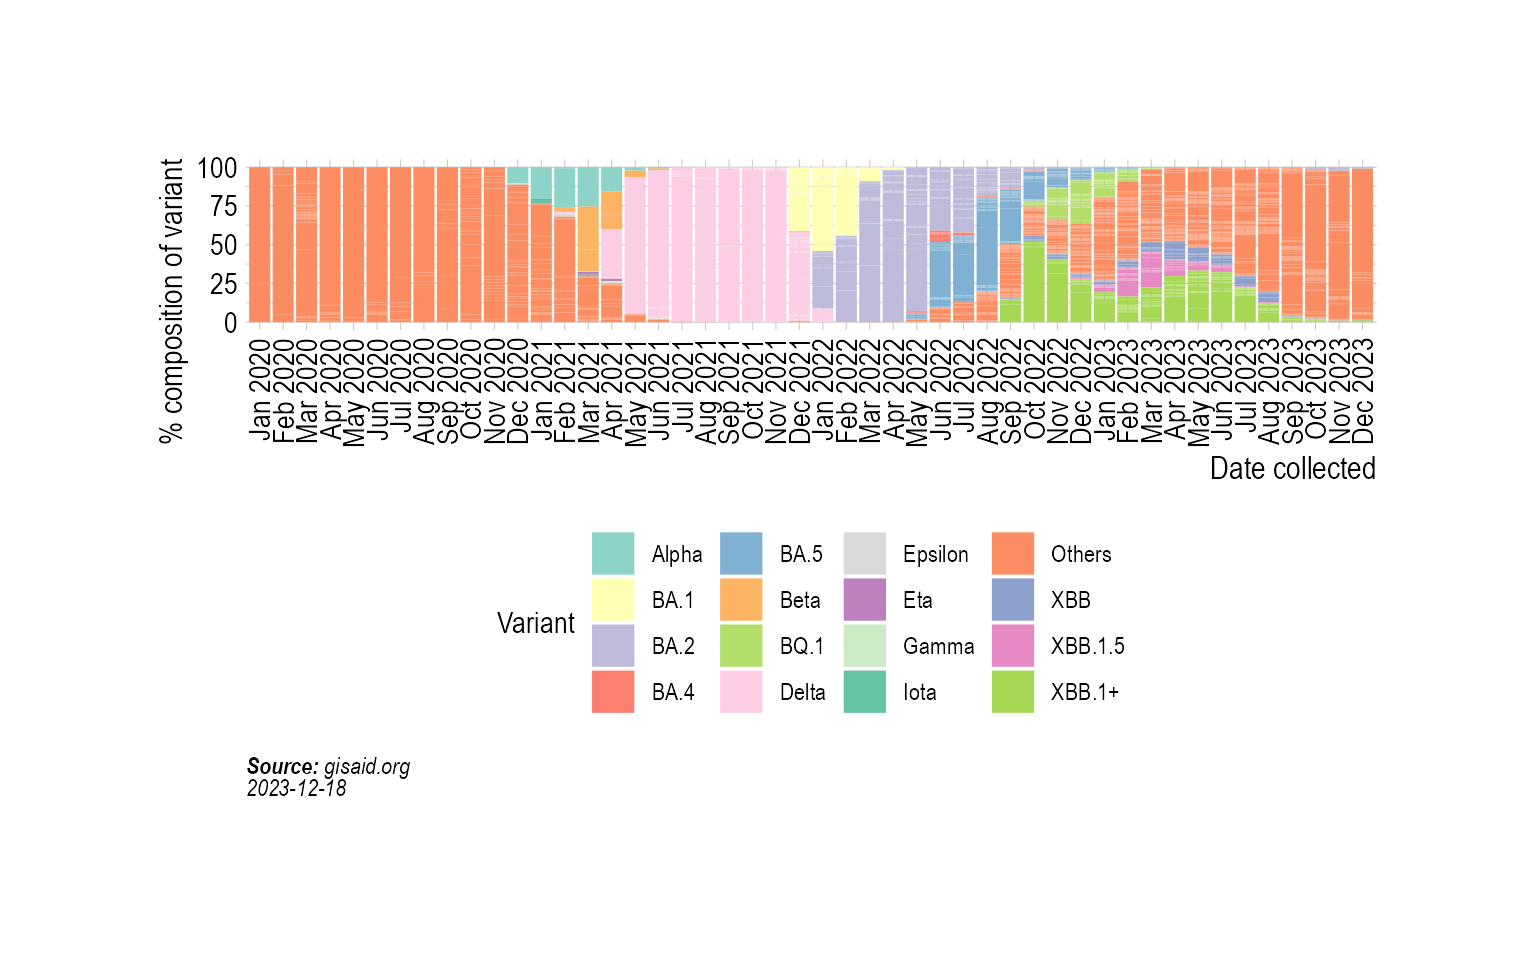
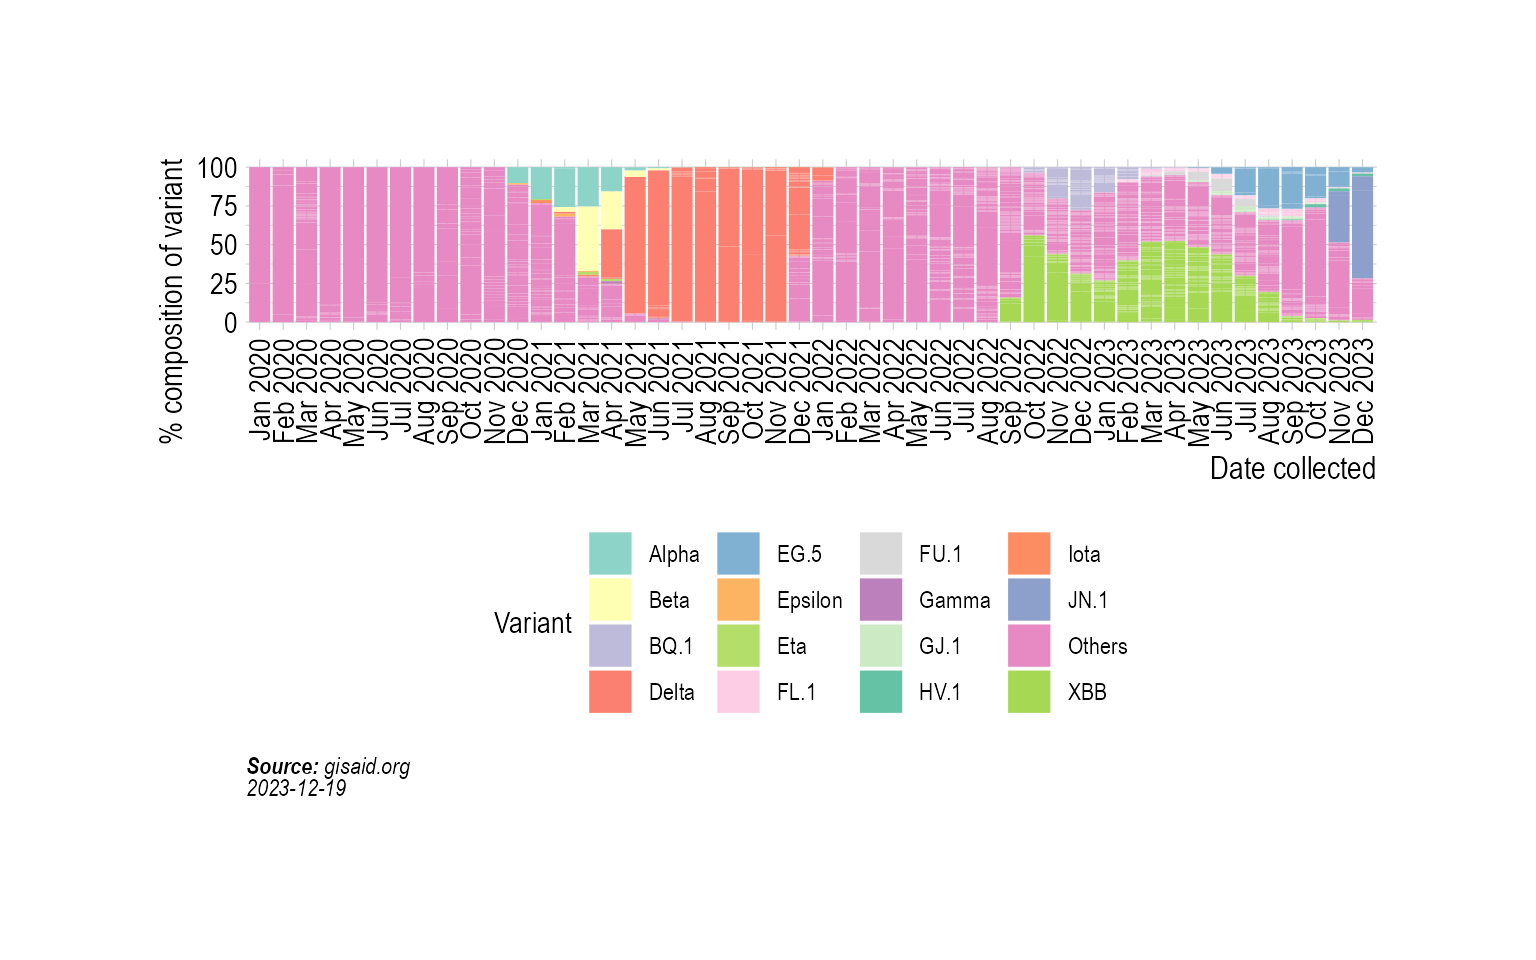
Add 2023

diff --git a/docs/articles/VariantAnimation-NewYork.html b/docs/articles/VariantAnimation-NewYork.html
@@ -147,20 +147,31 @@
 <span></span>
 <span><span class="va">vocs</span> <span class="op">&lt;-</span> <span class="fu"><a href="../reference/GetVOCs.html">GetVOCs</a></span><span class="op">(</span><span class="op">)</span></span>
 <span><span class="va">custom_voc_mapping</span> <span class="op">&lt;-</span> <span class="fu"><a href="https://rdrr.io/r/base/list.html" class="external-link">list</a></span><span class="op">(</span></span>
-<span>  `XBB` <span class="op">=</span> <span class="st">"XBB.*"</span>,</span>
-<span>  `XBB.*` <span class="op">=</span> <span class="st">"XBB.*"</span>,</span>
+<span>  `XBB` <span class="op">=</span> <span class="st">"XBB"</span>,</span>
+<span>  `XBB.1.5` <span class="op">=</span> <span class="st">"XBB"</span>,</span>
+<span>  `XBB.1` <span class="op">=</span> <span class="st">"XBB"</span>,</span>
+<span>  `XBB.1.*` <span class="op">=</span> <span class="st">"XBB"</span>,</span>
+<span>  `XBB.*` <span class="op">=</span> <span class="st">"XBB"</span>,</span>
+<span>  `XBB.*.*` <span class="op">=</span> <span class="st">"XBB"</span>,</span>
+<span>  `XBB.*.*.*` <span class="op">=</span> <span class="st">"XBB"</span>,</span>
 <span>  `BQ.1` <span class="op">=</span> <span class="st">"BQ.1"</span>,</span>
 <span>  `BQ.1.*` <span class="op">=</span> <span class="st">"BQ.1"</span>,</span>
-<span>  `XBB.1` <span class="op">=</span> <span class="st">"XBB.1.*"</span>,</span>
-<span>  `XBB.1.*` <span class="op">=</span> <span class="st">"XBB.1.*"</span>,</span>
-<span>  `XBB.1.5` <span class="op">=</span> <span class="st">"XBB.1.5"</span>,</span>
-<span>  `XBB.1.16` <span class="op">=</span> <span class="st">"XBB.1.16"</span>,</span>
-<span>  `XBB.1.16.*` <span class="op">=</span> <span class="st">"XBB.1.16"</span>,</span>
+<span>  `EG.5` <span class="op">=</span> <span class="st">"EG.5"</span>,</span>
+<span>  `EG.5.1` <span class="op">=</span> <span class="st">"EG.5"</span>,</span>
+<span>  `EG.5.1.1` <span class="op">=</span> <span class="st">"EG.5"</span>,</span>
 <span>  `EG.5.*` <span class="op">=</span> <span class="st">"EG.5"</span>,</span>
-<span>  `FL.1.*` <span class="op">=</span> <span class="st">"FL.1.*"</span>,</span>
-<span>  <span class="co"># `FL.1.5.*` = "FL.1.5",</span></span>
-<span>  <span class="co"># `FL.1.6.*` = "FL.1.6",</span></span>
-<span>  `GJ.1.2` <span class="op">=</span> <span class="st">"GJ.1.2"</span></span>
+<span>  `EG.5.1` <span class="op">=</span> <span class="st">"EG.5"</span>,</span>
+<span>  <span class="co">#`EG.6.*` = "EG.6",</span></span>
+<span>  <span class="co">#`EG.6.1` = "EG.6",</span></span>
+<span>  `FL.1.*` <span class="op">=</span> <span class="st">"FL.1"</span>,</span>
+<span>  `FU.1` <span class="op">=</span> <span class="st">"FU.1"</span>,</span>
+<span>  `FU.1.*` <span class="op">=</span> <span class="st">"FU.1"</span>,</span>
+<span>  `GJ.1.2` <span class="op">=</span> <span class="st">"GJ.1"</span>,</span>
+<span>  `GJ.1.*` <span class="op">=</span> <span class="st">"GJ.1"</span>,</span>
+<span>  `JN.1` <span class="op">=</span> <span class="st">"JN.1"</span>,</span>
+<span>  `JN.1.*` <span class="op">=</span> <span class="st">"JN.1"</span>,</span>
+<span>  `HV.1` <span class="op">=</span> <span class="st">"HV.1"</span>,</span>
+<span>  `HV.1.*` <span class="op">=</span> <span class="st">"HV.1"</span></span>
 <span><span class="op">)</span></span>
 <span><span class="va">gisaid_NY</span> <span class="op">&lt;-</span> <span class="va">gisaid_NY</span> <span class="op"><a href="https://magrittr.tidyverse.org/reference/pipe.html" class="external-link">%&gt;%</a></span> <span class="fu"><a href="https://dplyr.tidyverse.org/reference/filter.html" class="external-link">filter</a></span><span class="op">(</span><span class="va">pangolin_lineage</span> <span class="op">!=</span> <span class="st">"None"</span><span class="op">)</span></span>
 <span></span>
@@ -240,39 +251,42 @@
 <span><span class="va">newyork_cases_pred_prob_sel_long</span> <span class="op">&lt;-</span> <span class="fu">FitMultinomWeekly</span><span class="op">(</span><span class="va">gisaid_NY_weekwise</span>, <span class="va">confirmed_subset_dateweekwise_long</span><span class="op">)</span></span></code></pre></div>
 <pre><code><span><span class="co">## # weights:  76 (54 variable)</span></span>
 <span><span class="co">## initial  value 1010001.458634 </span></span>
-<span><span class="co">## iter  10 value 566159.885374</span></span>
-<span><span class="co">## iter  20 value 437620.703503</span></span>
-<span><span class="co">## iter  30 value 404498.499824</span></span>
-<span><span class="co">## iter  40 value 336866.930859</span></span>
-<span><span class="co">## iter  50 value 269393.671027</span></span>
-<span><span class="co">## iter  60 value 220122.374534</span></span>
-<span><span class="co">## iter  70 value 204316.805141</span></span>
-<span><span class="co">## iter  80 value 203003.958354</span></span>
-<span><span class="co">## iter  90 value 199894.761543</span></span>
-<span><span class="co">## iter 100 value 197554.257652</span></span>
-<span><span class="co">## iter 110 value 194919.906466</span></span>
-<span><span class="co">## iter 120 value 194881.146132</span></span>
-<span><span class="co">## iter 130 value 194823.583407</span></span>
-<span><span class="co">## iter 140 value 194672.576151</span></span>
-<span><span class="co">## iter 150 value 193793.357158</span></span>
-<span><span class="co">## iter 160 value 193351.286062</span></span>
-<span><span class="co">## iter 170 value 193262.317008</span></span>
-<span><span class="co">## iter 180 value 193161.900253</span></span>
-<span><span class="co">## iter 190 value 193125.851603</span></span>
-<span><span class="co">## iter 200 value 193070.999420</span></span>
-<span><span class="co">## iter 210 value 193030.398306</span></span>
-<span><span class="co">## iter 220 value 193011.530373</span></span>
-<span><span class="co">## iter 230 value 193010.427189</span></span>
-<span><span class="co">## iter 240 value 193009.755394</span></span>
-<span><span class="co">## iter 250 value 193009.039769</span></span>
-<span><span class="co">## iter 260 value 193002.551259</span></span>
-<span><span class="co">## iter 270 value 192995.148969</span></span>
-<span><span class="co">## iter 280 value 192990.181962</span></span>
-<span><span class="co">## iter 290 value 192987.358018</span></span>
-<span><span class="co">## iter 300 value 192982.372316</span></span>
-<span><span class="co">## iter 310 value 192979.840458</span></span>
-<span><span class="co">## iter 320 value 192973.041250</span></span>
-<span><span class="co">## final  value 192971.059821 </span></span>
+<span><span class="co">## iter  10 value 619111.373393</span></span>
+<span><span class="co">## iter  20 value 502830.291513</span></span>
+<span><span class="co">## iter  30 value 467338.725433</span></span>
+<span><span class="co">## iter  40 value 379343.704580</span></span>
+<span><span class="co">## iter  50 value 273901.534083</span></span>
+<span><span class="co">## iter  60 value 219325.697743</span></span>
+<span><span class="co">## iter  70 value 201375.186535</span></span>
+<span><span class="co">## iter  80 value 196984.262630</span></span>
+<span><span class="co">## iter  90 value 195684.978356</span></span>
+<span><span class="co">## iter 100 value 193081.203995</span></span>
+<span><span class="co">## iter 110 value 190709.802037</span></span>
+<span><span class="co">## iter 120 value 190613.895245</span></span>
+<span><span class="co">## iter 130 value 190043.771135</span></span>
+<span><span class="co">## iter 140 value 186970.571105</span></span>
+<span><span class="co">## iter 150 value 185811.065508</span></span>
+<span><span class="co">## iter 160 value 185638.981219</span></span>
+<span><span class="co">## iter 170 value 185516.542360</span></span>
+<span><span class="co">## iter 180 value 185414.226062</span></span>
+<span><span class="co">## iter 190 value 185276.336124</span></span>
+<span><span class="co">## iter 200 value 185234.646561</span></span>
+<span><span class="co">## iter 210 value 185165.429592</span></span>
+<span><span class="co">## iter 220 value 185157.363469</span></span>
+<span><span class="co">## iter 230 value 185156.835653</span></span>
+<span><span class="co">## iter 240 value 185155.977242</span></span>
+<span><span class="co">## iter 250 value 185155.718607</span></span>
+<span><span class="co">## iter 260 value 185155.475303</span></span>
+<span><span class="co">## iter 270 value 185154.804150</span></span>
+<span><span class="co">## iter 280 value 185152.271977</span></span>
+<span><span class="co">## iter 290 value 185146.235712</span></span>
+<span><span class="co">## iter 300 value 185142.930987</span></span>
+<span><span class="co">## iter 310 value 185137.384087</span></span>
+<span><span class="co">## iter 320 value 185127.260207</span></span>
+<span><span class="co">## iter 330 value 185123.239067</span></span>
+<span><span class="co">## iter 340 value 185113.622547</span></span>
+<span><span class="co">## iter 350 value 185107.240830</span></span>
+<span><span class="co">## final  value 185103.223798 </span></span>
 <span><span class="co">## converged</span></span></code></pre>
 <div class="sourceCode" id="cb9"><pre class="downlit sourceCode r">
 <code class="sourceCode R"><span><span class="va">the_anim</span> <span class="op">&lt;-</span> <span class="fu">PlotVariantPrevalenceAnimated</span><span class="op">(</span><span class="va">newyork_cases_pred_prob_sel_long</span>, title <span class="op">=</span> <span class="st">"Estimated cases (weekly average) in New York state by variant"</span>, caption <span class="op">=</span> <span class="st">"**Source: gisaid.org and covid19nytimes**&lt;br&gt;"</span>, date_breaks <span class="op">=</span> <span class="st">"28 days"</span><span class="op">)</span></span>
@@ -283,13 +297,13 @@
 <code class="sourceCode R"><span><span class="va">confirmed</span><span class="op">$</span><span class="va">MonthYear</span> <span class="op">&lt;-</span> <span class="fu"><a href="../reference/GetMonthYear.html">GetMonthYear</a></span><span class="op">(</span><span class="va">confirmed</span><span class="op">$</span><span class="va">date</span><span class="op">)</span></span>
 <span></span>
 <span><span class="va">confirmed_subset_dateweekwise_long</span> <span class="op">&lt;-</span> <span class="va">confirmed</span> <span class="op"><a href="https://magrittr.tidyverse.org/reference/pipe.html" class="external-link">%&gt;%</a></span></span>
-<span>  <span class="fu"><a href="https://dplyr.tidyverse.org/reference/filter.html" class="external-link">filter</a></span><span class="op">(</span><span class="va">MonthYear</span> <span class="op">&gt;</span> <span class="st">"Feb 2022"</span><span class="op">)</span> <span class="op"><a href="https://magrittr.tidyverse.org/reference/pipe.html" class="external-link">%&gt;%</a></span></span>
+<span>  <span class="fu"><a href="https://dplyr.tidyverse.org/reference/filter.html" class="external-link">filter</a></span><span class="op">(</span><span class="va">MonthYear</span> <span class="op">&gt;</span> <span class="st">"December 2022"</span><span class="op">)</span> <span class="op"><a href="https://magrittr.tidyverse.org/reference/pipe.html" class="external-link">%&gt;%</a></span></span>
 <span>  <span class="fu"><a href="https://dplyr.tidyverse.org/reference/group_by.html" class="external-link">group_by</a></span><span class="op">(</span><span class="va">WeekYear</span><span class="op">)</span> <span class="op"><a href="https://magrittr.tidyverse.org/reference/pipe.html" class="external-link">%&gt;%</a></span></span>
 <span>  <span class="fu"><a href="https://dplyr.tidyverse.org/reference/summarise.html" class="external-link">summarise</a></span><span class="op">(</span>n <span class="op">=</span> <span class="fu"><a href="https://rdrr.io/r/base/sum.html" class="external-link">sum</a></span><span class="op">(</span><span class="va">daily_cases</span><span class="op">)</span><span class="op">)</span> <span class="op"><a href="https://magrittr.tidyverse.org/reference/pipe.html" class="external-link">%&gt;%</a></span></span>
 <span>  <span class="fu"><a href="https://dplyr.tidyverse.org/reference/arrange.html" class="external-link">arrange</a></span><span class="op">(</span><span class="va">WeekYear</span><span class="op">)</span> <span class="op"><a href="https://magrittr.tidyverse.org/reference/pipe.html" class="external-link">%&gt;%</a></span></span>
 <span>  <span class="fu"><a href="https://dplyr.tidyverse.org/reference/rename.html" class="external-link">rename</a></span><span class="op">(</span>WeekYearCollected <span class="op">=</span> <span class="va">WeekYear</span><span class="op">)</span></span>
 <span></span>
-<span><span class="va">gisaid_NY</span> <span class="op">&lt;-</span> <span class="va">gisaid_NY</span> <span class="op"><a href="https://magrittr.tidyverse.org/reference/pipe.html" class="external-link">%&gt;%</a></span> <span class="fu"><a href="https://dplyr.tidyverse.org/reference/filter.html" class="external-link">filter</a></span><span class="op">(</span><span class="va">MonthYearCollected</span> <span class="op">&gt;</span> <span class="st">"Feb 2022"</span><span class="op">)</span></span>
+<span><span class="va">gisaid_NY</span> <span class="op">&lt;-</span> <span class="va">gisaid_NY</span> <span class="op"><a href="https://magrittr.tidyverse.org/reference/pipe.html" class="external-link">%&gt;%</a></span> <span class="fu"><a href="https://dplyr.tidyverse.org/reference/filter.html" class="external-link">filter</a></span><span class="op">(</span><span class="va">MonthYearCollected</span> <span class="op">&gt;</span> <span class="st">"December 2022"</span><span class="op">)</span></span>
 <span><span class="va">gisaid_weekwise</span> <span class="op">&lt;-</span> <span class="fu"><a href="../reference/SummarizeVariantsWeekwise.html">SummarizeVariantsWeekwise</a></span><span class="op">(</span><span class="va">gisaid_NY</span><span class="op">)</span></span>
 <span></span>
 <span><span class="va">voc_to_keep</span> <span class="op">&lt;-</span> <span class="va">gisaid_weekwise</span> <span class="op"><a href="https://magrittr.tidyverse.org/reference/pipe.html" class="external-link">%&gt;%</a></span></span>
@@ -301,19 +315,18 @@
 <span><span class="va">gisaid_weekwise</span> <span class="op">&lt;-</span> <span class="va">gisaid_weekwise</span> <span class="op"><a href="https://magrittr.tidyverse.org/reference/pipe.html" class="external-link">%&gt;%</a></span> <span class="fu"><a href="https://dplyr.tidyverse.org/reference/filter.html" class="external-link">filter</a></span><span class="op">(</span><span class="va">lineage_collapsed</span> <span class="op"><a href="https://rdrr.io/r/base/match.html" class="external-link">%in%</a></span> <span class="va">voc_to_keep</span><span class="op">)</span></span>
 <span></span>
 <span><span class="va">cases_pred_prob_sel_long</span> <span class="op">&lt;-</span> <span class="fu">FitMultinomWeekly</span><span class="op">(</span><span class="va">gisaid_weekwise</span>, <span class="va">confirmed_subset_dateweekwise_long</span><span class="op">)</span></span></code></pre></div>
-<pre><code><span><span class="co">## # weights:  40 (27 variable)</span></span>
-<span><span class="co">## initial  value 393868.693082 </span></span>
-<span><span class="co">## iter  10 value 142360.152256</span></span>
-<span><span class="co">## iter  20 value 135141.263929</span></span>
-<span><span class="co">## iter  30 value 116380.812630</span></span>
-<span><span class="co">## iter  40 value 108561.420085</span></span>
-<span><span class="co">## iter  50 value 107761.875889</span></span>
-<span><span class="co">## iter  60 value 107702.170901</span></span>
-<span><span class="co">## iter  70 value 107658.933557</span></span>
-<span><span class="co">## iter  80 value 107536.416244</span></span>
-<span><span class="co">## iter  90 value 107496.848564</span></span>
-<span><span class="co">## iter 100 value 107494.872405</span></span>
-<span><span class="co">## final  value 107494.505963 </span></span>
+<pre><code><span><span class="co">## # weights:  36 (24 variable)</span></span>
+<span><span class="co">## initial  value 75189.025036 </span></span>
+<span><span class="co">## iter  10 value 50185.051303</span></span>
+<span><span class="co">## iter  20 value 39712.513932</span></span>
+<span><span class="co">## iter  30 value 36855.951660</span></span>
+<span><span class="co">## iter  40 value 36730.960087</span></span>
+<span><span class="co">## iter  50 value 36703.444809</span></span>
+<span><span class="co">## iter  60 value 36699.906774</span></span>
+<span><span class="co">## iter  70 value 36679.157540</span></span>
+<span><span class="co">## iter  80 value 36671.555254</span></span>
+<span><span class="co">## iter  90 value 36670.836738</span></span>
+<span><span class="co">## final  value 36666.977997 </span></span>
 <span><span class="co">## converged</span></span></code></pre>
 <div class="sourceCode" id="cb12"><pre class="downlit sourceCode r">
 <code class="sourceCode R"><span><span class="va">the_anim</span> <span class="op">&lt;-</span> <span class="fu">PlotVariantPrevalenceAnimated</span><span class="op">(</span><span class="va">cases_pred_prob_sel_long</span>, title <span class="op">=</span> <span class="st">"Estimated cases (weekly average) in New York state by variant"</span>, caption <span class="op">=</span> <span class="st">"**Source: gisaid.org and covid19nytimes**&lt;br&gt;"</span><span class="op">)</span></span></code></pre></div>
@@ -322,8 +335,8 @@
 <span><span class="co">## `geom_line()`: Each group consists of only one observation.</span></span>
 <span><span class="co">## <span style="color: #00BBBB;">ℹ</span> Do you need to adjust the <span style="color: #00BB00;">group</span> aesthetic?</span></span></code></pre>
 <div class="sourceCode" id="cb14"><pre class="downlit sourceCode r">
-<code class="sourceCode R"><span><span class="fu">gganimate</span><span class="fu">::</span><span class="fu"><a href="https://gganimate.com/reference/anim_save.html" class="external-link">anim_save</a></span><span class="op">(</span>filename <span class="op">=</span> <span class="fu">here</span><span class="fu">::</span><span class="fu"><a href="https://here.r-lib.org//reference/here.html" class="external-link">here</a></span><span class="op">(</span><span class="st">"docs/articles/NY_animated_2021.gif"</span><span class="op">)</span>, animation <span class="op">=</span> <span class="va">the_anim</span><span class="op">)</span></span></code></pre></div>
-<p><img src="NY_animated_2021.gif"></p>
+<code class="sourceCode R"><span><span class="fu">gganimate</span><span class="fu">::</span><span class="fu"><a href="https://gganimate.com/reference/anim_save.html" class="external-link">anim_save</a></span><span class="op">(</span>filename <span class="op">=</span> <span class="fu">here</span><span class="fu">::</span><span class="fu"><a href="https://here.r-lib.org//reference/here.html" class="external-link">here</a></span><span class="op">(</span><span class="st">"docs/articles/NY_animated_2023.gif"</span><span class="op">)</span>, animation <span class="op">=</span> <span class="va">the_anim</span><span class="op">)</span></span></code></pre></div>
+<p><img src="NY_animated_2023.gif"></p>
 </div>
   </main><aside class="col-md-3"><nav id="toc"><h2>On this page</h2>
     </nav></aside>
